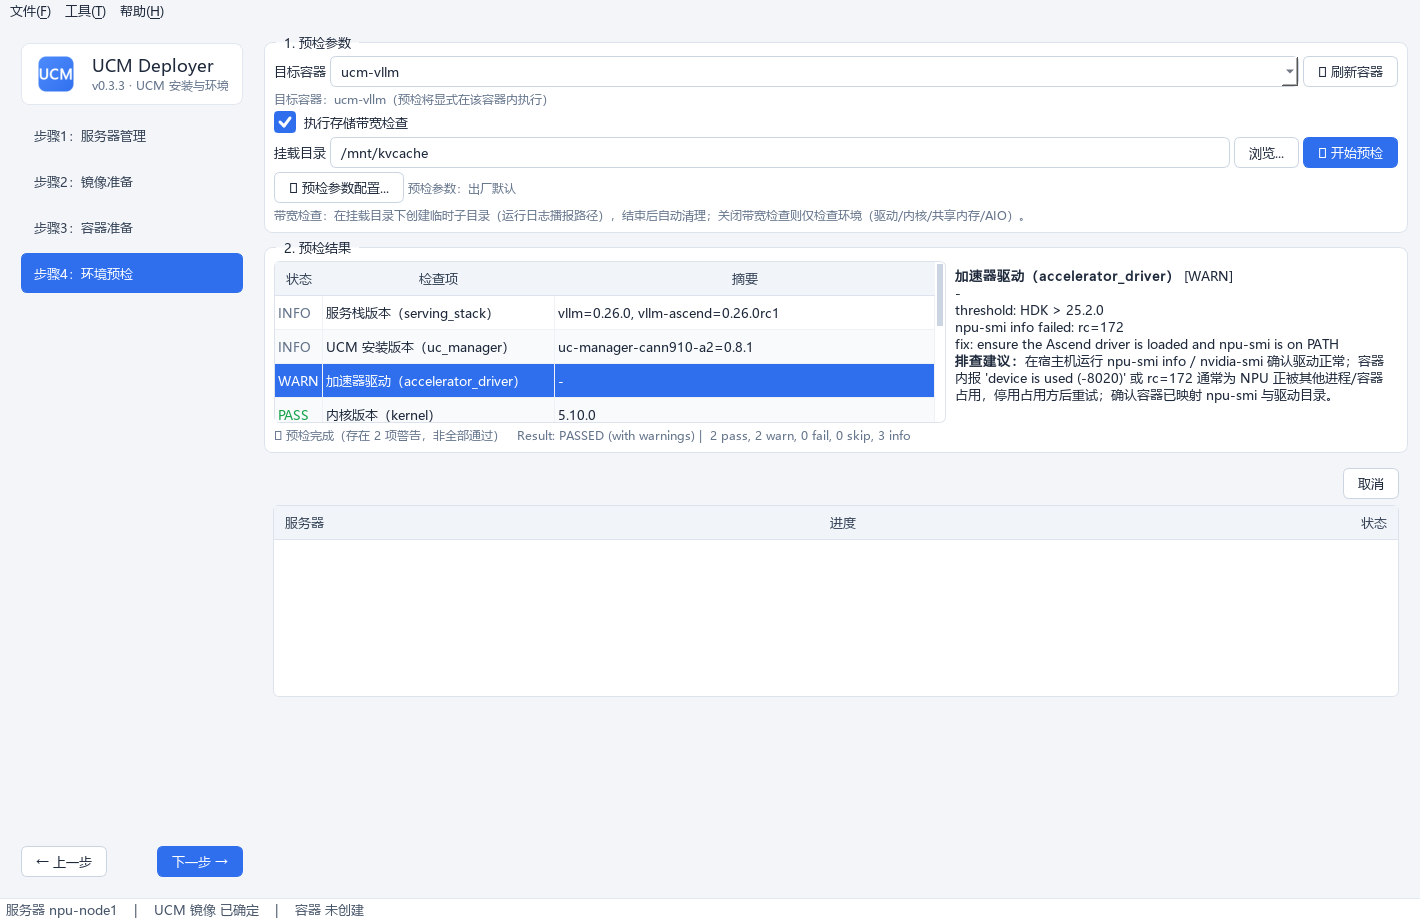
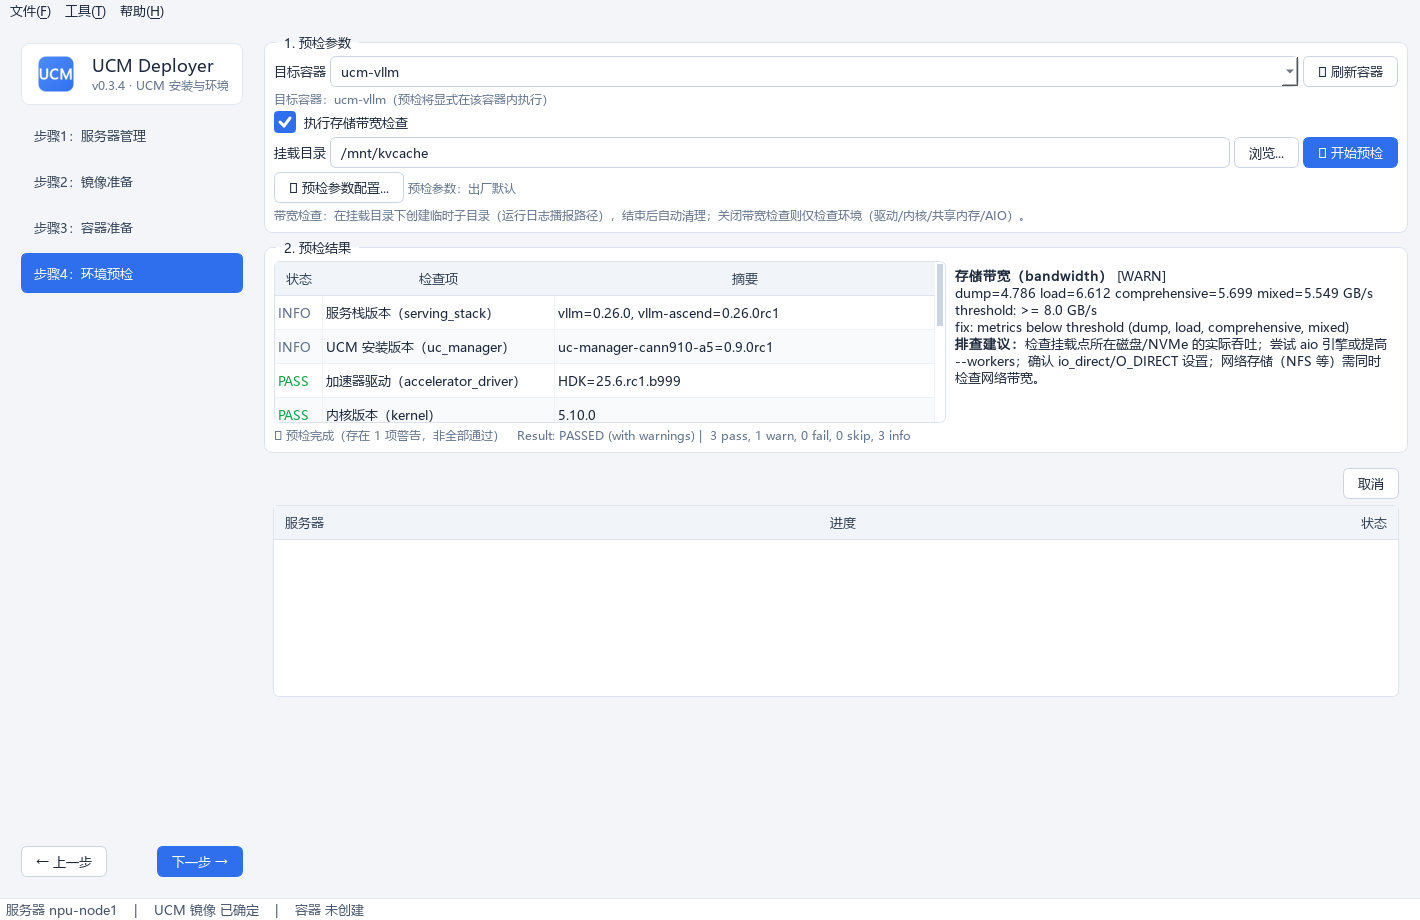
docs(release): prepare v0.3.4

Changed region(s): [[0.1859, 0.2739, 0.9915, 0.4565]]

diff --git a/docs/index.html b/docs/index.html
@@ -276,7 +276,7 @@ footer {
     <a class="btn btn-primary" href="#quickstart">快速开始</a>
     <a class="btn btn-outline" href="https://github.com/student-jhz/UCM-Deployer/releases/latest/download/UCM-Deployer.exe">下载 EXE</a>
   </div>
-  <p class="meta">当前版本 v0.3.3 · 支持 Ascend NPU · NVIDIA GPU · Linux 服务器 · Docker</p>
+  <p class="meta">当前版本 v0.3.4 · 支持 Ascend NPU · NVIDIA GPU · Linux 服务器 · Docker</p>
 </header>
 
 <div class="container">
@@ -295,7 +295,7 @@ footer {
     <div class="card"><h3>镜像导入</h3><p>支持本地 tar 包上传，也支持输入镜像仓库地址，按目标架构拉取后自动导入服务器。</p></div>
     <div class="card"><h3>按需构建</h3><p>仅在基础镜像未安装 UCM 时上传 wrapt、UCM、ucm-toolkit whl 并构建新镜像。</p></div>
     <div class="card"><h3>命令透明</h3><p>所有 Docker 命令先完整展示，允许编辑，再执行，避免黑盒操作。</p></div>
-    <div class="card"><h3>环境预检</h3><p>显式选择容器，检查驱动、内核、共享内存、AIO 与存储带宽，输出中文排查建议。</p></div>
+    <div class="card"><h3>环境预检</h3><p>显式选择容器，检查驱动、内核、共享内存、AIO 与存储带宽；UCM 与驱动版本支持多来源补齐。</p></div>
     <div class="card"><h3>运维善后</h3><p>按关键字筛选并清理容器或镜像，删除前展示完整对象列表。</p></div>
   </div>
   <figure class="figure">

diff --git a/scripts/take_screenshots.py b/scripts/take_screenshots.py
@@ -228,15 +228,16 @@ def main() -> int:
     pp._result_items = []
     sample = PrecheckResult(
         exit_code=0, ok=True,
-        summary="Result: PASSED (with warnings) |  2 pass, 2 warn, 0 fail, 0 skip, 3 info",
+        summary="Result: PASSED (with warnings) |  3 pass, 1 warn, 0 fail, 0 skip, 3 info",
         items=[
             PrecheckItem("INFO", "serving_stack", "vllm=0.26.0, vllm-ascend=0.26.0rc1",
                          name_zh="服务栈版本", advice="信息项：记录 vLLM / vLLM-Ascend / SGLang 实际安装版本，仅展示。"),
-            PrecheckItem("INFO", "uc_manager", "uc-manager-cann910-a2=0.8.1",
+            PrecheckItem("INFO", "uc_manager", "uc-manager-cann910-a5=0.9.0rc1",
+                         detail="[deployer] fact source: pip list",
                          name_zh="UCM 安装版本", advice="信息项：记录 uc-manager（含平台变体包）实际安装版本，仅展示。"),
-            PrecheckItem("WARN", "accelerator_driver", "-",
-                         detail="threshold: HDK > 25.2.0\nnpu-smi info failed: rc=172\n"
-                                "fix: ensure the Ascend driver is loaded and npu-smi is on PATH",
+            PrecheckItem("PASS", "accelerator_driver", "HDK=25.6.rc1.b999",
+                         detail="[deployer] fact source: /usr/local/Ascend/driver/version.info\n"
+                                "threshold: HDK > 25.2.0",
                          name_zh="加速器驱动",
                          advice="在宿主机运行 npu-smi info / nvidia-smi 确认驱动正常；容器内报 "
                                 "'device is used (-8020)' 或 rc=172 通常为 NPU 正被其他进程/容器占用，"

diff --git a/ucm_deployer/version.py b/ucm_deployer/version.py
@@ -1,4 +1,4 @@
 # -*- coding: utf-8 -*-
 """应用名称与版本号。"""
 APP_NAME = "UCM Deployer"
-__version__ = "0.3.3"
+__version__ = "0.3.4"

diff --git a/README.md b/README.md
@@ -13,7 +13,7 @@
 - **步骤1 服务器管理**：SSH 登录信息本地加密保存/复用；单选登录一台服务器；`npu-smi`/`nvidia-smi` 设备探测（型号/卡数/CPU 架构）
 - **步骤2 镜像准备**：选服务器已有镜像（**关键字筛选**）、上传 tar 包 `docker load`，或输入镜像仓库地址（如 `quay.io/ascend/vllm-ascend:v0.30.0rc2-a5-openeuler`）由本地 Docker **按目标服务器架构拉取**、导出 `tar.gz` 并自动上传加载；已含 UCM 的镜像可直接复用并跳过构建；确需构建时上传 wrapt/UCM/ucm-toolkit whl，构建前自动校验设备平台与架构
 - **步骤3 容器准备**：选 UCM 镜像（**选择时自动校验**镜像内 UCM）；自动探测宿主机实际存在的 Ascend 设备节点与驱动/工具挂载，兼容 Ascend 950PR/A5（缺失 `/dev/devmm_svm` 时不再生成该参数，存在 `/dev/ummu` 或 `/dev/uburma` 时自动添加 `--privileged=true`）；GPU 使用 `--runtime nvidia --gpus all -p 8000:8000`；KV Cache / 模型只读 / 自定义挂载；docker run 命令**可编辑**后执行；已有 UCM 容器可跳过创建
-- **步骤4 环境预检**：**显式选择目标容器**（刷新 `docker ps -a` 后选择已有容器或输入容器名）；在所选容器内运行 `ucm-toolkit run precheck`（驱动/内核/共享内存/AIO 检查 + **可选挂载目录带宽测试**）；**预检参数可配置**；结果**表格+详情区展示**（PASS/WARN/FAIL/INFO 着色、中文名与排查建议）
+- **步骤4 环境预检**：**显式选择目标容器**（刷新 `docker ps -a` 后选择已有容器或输入容器名）；在所选容器内运行 `ucm-toolkit run precheck`（驱动/内核/共享内存/AIO 检查 + **可选挂载目录带宽测试**）；当 toolkit 无法识别 UCM 平台变体或 Ascend 驱动版本时，自动用 pip 元数据、`version.info`、`npu-smi`、`nvidia-smi` 多来源补齐并标注来源；**预检参数可配置**；结果**表格+详情区展示**（PASS/WARN/FAIL/INFO 着色、中文名与排查建议）
 - **工具菜单**：清理指定容器（`docker ps -a` 勾选删除）/ 清理指定镜像（`docker images` 勾选删除），作用于当前登录的服务器
 - 步骤间**自由跳转**（前置条件在操作执行时拦截）；所有生成的命令**先展示、可编辑、再执行**；本工具负责 UCM 安装与环境预检，不负责启动或部署推理服务
 
@@ -58,7 +58,7 @@ git tag v0.2.0 && git push origin v0.2.0
 
 | 层级 | 手段 | 覆盖 |
 |---|---|---|
-| 单元测试 | `tests/`（FakeSSH 脚本化 paramiko 替身） | SSH/加密/注册表/设备解析/docker 解析/Dockerfile/命令生成/匹配校验 等 150 项 |
+| 单元测试 | `tests/`（FakeSSH 脚本化 paramiko 替身） | SSH/加密/注册表/设备解析/docker 解析/Dockerfile/命令生成/匹配校验 等 155 项 |
 | GUI | offscreen 冒烟 | 三页面实例化、导航守卫、单选、镜像筛选、下载链接、whl 反馈、像素采样断言界面无黑块 |
 | 产物 | `exe --smoke` | 打包后程序自检 |
 
@@ -87,7 +87,7 @@ UCM-Deployer/
 │   │   ├── main_window.py        # 主窗口/导航守卫/状态栏
 │   │   └── theme.py              # QSS 主题 + 图标
 │   └── utils/                    # 日志/路径
-├── tests/                        # 150 项测试（FakeSSH + GUI 冒烟）
+├── tests/                        # 155 项测试（FakeSSH + GUI 冒烟）
 ├── docs/                         # 用户手册 / 架构文档
 ├── scripts/build_exe.ps1         # 打包脚本
 └── ucm_deployer.spec             # PyInstaller 配置

diff --git a/scripts/release_notes_template.md b/scripts/release_notes_template.md
@@ -10,18 +10,18 @@
 
 ## 本版本更新
 
-- **设备型号识别**：修复新版 `npu-smi` 表格解析，正确显示 `Ascend950PR`，不再误报“型号未知”。
-- **动态设备节点映射**：创建容器前逐个探测 `/dev/davinci*`、`davinci_manager`、`hisi_hdc`、`devmm_svm`、`ummu`、`uburma`，仅映射实际存在的节点；950PR/A5 没有 `/dev/devmm_svm` 时不会再生成该参数。
-- **A5 系统资源适配**：自动筛选实际存在的 Ascend 驱动、工具与配置挂载；检测到 `/dev/ummu` 或 `/dev/uburma` 时自动添加 `--privileged=true`。
-- **文档与截图**：在线手册、首页与截图更新 950PR/A5 场景，并保留中文可读截图。
-- **产品定位**：工具定位为 UCM 安装与环境预检，不负责启动或部署推理服务。
+- **UCM 平台变体识别**：预检输出 `uc_manager -` 时，自动从 pip freeze/表格输出识别 `uc-manager-cann910-a5` 等包名，显示实际版本。
+- **Ascend 驱动版本补齐**：`HDK=?` 时自动读取 `/usr/local/Ascend/driver/version.info`，例如 `Version=25.6.rc1.b999` 会显示为 `HDK=25.6.rc1.b999`，并按 `> 25.2.0` 判定。
+- **通用多来源探测**：驱动版本依次支持 `version.info`、`npu-smi info`、`nvidia-smi`；探测来源写入详情区 `[deployer] fact source`，并保留 toolkit 原始输出。
+- **LD_PRELOAD 噪声隔离**：事实探测忽略缺失 `libjemalloc.so.2` 产生的 loader 警告，只解析有效 stdout。
+- **测试**：新增 A5 实测样例覆盖，包含完整预检增强链路。
 
 ## 主要功能
 
 - **步骤1 服务器管理**：SSH 凭据本地加密保存/复用；自动探测设备型号、卡数与 CPU 架构。
 - **步骤2 镜像准备**：支持服务器已有镜像、本地 tar 上传、镜像仓库拉取；按需离线构建 UCM 镜像并校验平台/架构匹配。
 - **步骤3 容器准备**：选择 UCM 镜像自动校验安装情况；按宿主机实际存在的设备节点与系统挂载生成可编辑 `docker run` 命令；支持 KV Cache、模型与自定义挂载。
-- **步骤4 环境预检**：显式选择容器；检查驱动、内核、共享内存、AIO 与存储带宽；支持 JSON 参数叠加配置。
+- **步骤4 环境预检**：显式选择容器；检查驱动、内核、共享内存、AIO 与存储带宽；UCM 与驱动版本支持多来源补齐；支持 JSON 参数叠加配置。
 - **工具菜单**：按关键字筛选并清理容器/镜像，删除前展示完整确认列表。
 
 ## 使用

diff --git a/docs/用户手册.md b/docs/用户手册.md
@@ -11,7 +11,7 @@
 - **步骤1 服务器管理**：SSH 登录信息本地加密保存/复用；单选登录一台服务器；`npu-smi`/`nvidia-smi` 设备探测（型号/卡数/CPU 架构）
 - **步骤2 镜像准备**：复用已含 UCM 的镜像；支持上传 tar 包或输入镜像仓库地址自动拉取导入；确需构建时上传 wrapt/UCM/ucm-toolkit whl 并校验匹配
 - **步骤3 容器准备**：选 UCM 镜像（自动校验）；自动探测并映射实际存在的 Ascend 设备节点、驱动与工具挂载，兼容 Ascend950PR/A5；KV Cache / 模型 / 自定义挂载；docker run 命令可编辑后执行；已有 UCM 容器可跳过创建
-- **步骤4 环境预检**：显式选择目标容器并在其中运行 ucm-toolkit 预检（环境检查 + 可选挂载目录带宽测试），结果表格逐项展示
+- **步骤4 环境预检**：显式选择目标容器并在其中运行 ucm-toolkit 预检（环境检查 + 可选挂载目录带宽测试）；UCM 与驱动版本识别失败时自动用 pip、version.info、npu-smi/nvidia-smi 多来源补齐，结果表格逐项展示
 
 所有生成的命令与脚本都是**先展示、可编辑、再执行**。本工具负责 UCM 安装与环境预检，不负责启动或部署推理服务。
 
@@ -151,4 +151,4 @@ powershell -ExecutionPolicy Bypass -File scripts\build_exe.ps1
 `~/.ucm_deployer/logs/ucm_deployer.log`（菜单「帮助 → 打开日志目录」）。
 
 **Q: 如何在无真实服务器时验证程序？**
-运行 `.venv\Scripts\python -m pytest`（150 项自动化测试覆盖 SSH/加密/设备解析/docker/命令生成/匹配校验/环境预检/GUI 冒烟，无需真实服务器）。
+运行 `.venv\Scripts\python -m pytest`（155 项自动化测试覆盖 SSH/加密/设备解析/docker/命令生成/匹配校验/环境预检/GUI 冒烟，无需真实服务器）。

diff --git a/docs/index.md b/docs/index.md
@@ -22,7 +22,7 @@
 | **① 服务器管理** | SSH 登录信息本地加密保存/复用；单选登录；`npu-smi`/`nvidia-smi` 设备探测（型号/卡数/CPU 架构） |
 | **② 镜像构建** | 基础镜像**关键字筛选**或上传 tar `docker load`；上传 wrapt/UCM/ucm-toolkit whl（附**在线下载链接**与即时反馈）；构建前自动**匹配校验**（设备平台 + whl 架构标记） |
 | **③ 容器创建** | 选 UCM 镜像（**选择时自动校验**）；自动探测并映射实际存在的 Ascend 设备节点、驱动与工具挂载，兼容 Ascend950PR/A5；GPU 使用 `--runtime nvidia --gpus all`；docker run 命令**可编辑**后执行 |
-| **④ 环境预检** | 容器内运行 `ucm-toolkit run precheck`（环境检查 + **可选带宽测试**，临时子目录自动清理）；**预检参数可配置**；结果表格+详情区展示（中文名与排查建议） |
+| **④ 环境预检** | 容器内运行 `ucm-toolkit run precheck`（环境检查 + **可选带宽测试**）；UCM 与驱动版本支持多来源补齐；**预检参数可配置**；结果表格+详情区展示（中文名与排查建议） |
 | **工具菜单** | 清理指定容器/镜像（关键字筛选、悬浮看全名） |
 
 ## 核心特性

diff --git a/docs/guide/step4.md b/docs/guide/step4.md
@@ -2,6 +2,8 @@
 
 在**已创建的容器内**运行 `ucm-toolkit run precheck`，提前发现可能影响启动或缓存读写的问题。
 
+如果 toolkit 输出 `uc_manager -` 或 `HDK=?`，Deployer 不会直接放弃识别，而会在容器内独立探测事实来源：pip 包元数据（兼容 `uc-manager-cann910-a5` 等平台变体）、`/usr/local/Ascend/driver/version.info`、`npu-smi info`、`nvidia-smi`。补齐后的结果会在详情中标注 `[deployer] fact source`，不隐藏 toolkit 原始输出。
+
 ![步骤4 界面](../screenshots/step4-precheck.png)
 
 ## 操作流程
@@ -36,8 +38,8 @@
 
 | 检查项 | 默认阈值/行为 |
 |---|---|
-| 服务栈版本 / UCM 版本 / AIO 资源 | INFO，仅展示 |
-| 加速器驱动 | 缺失失败；Ascend HDK > 25.2.0，较低警告 |
+| 服务栈版本 / UCM 版本 / AIO 资源 | INFO，仅展示；UCM 版本支持 pip 多格式与平台变体识别 |
+| 加速器驱动 | 缺失失败；Ascend HDK > 25.2.0，较低警告；支持 `version.info` / `npu-smi` / `nvidia-smi` 补齐 |
 | 内核 | ≥ 5.10 |
 | 共享内存 /dev/shm | < 512 GiB 警告 |
 | 存储带宽 | 最佳组合聚合带宽 < 8 GB/s 警告 |

diff --git a/docs/architecture.md b/docs/architecture.md
@@ -124,7 +124,7 @@ TerminateProcess 从未执行（这正是最初"保险失效"的原因）。
 - **GUI 冒烟**：`QT_QPA_PLATFORM=offscreen` 下实例化页面验证交互逻辑
   （自由跳转、操作拦截、镜像筛选、命名建议联动、一屏排版断言）；
   界面渲染质量用像素采样断言（不依赖人工看图）；
-- 共 150 项测试。
+- 共 155 项测试。
 
 ## 7. 发布流程
 
